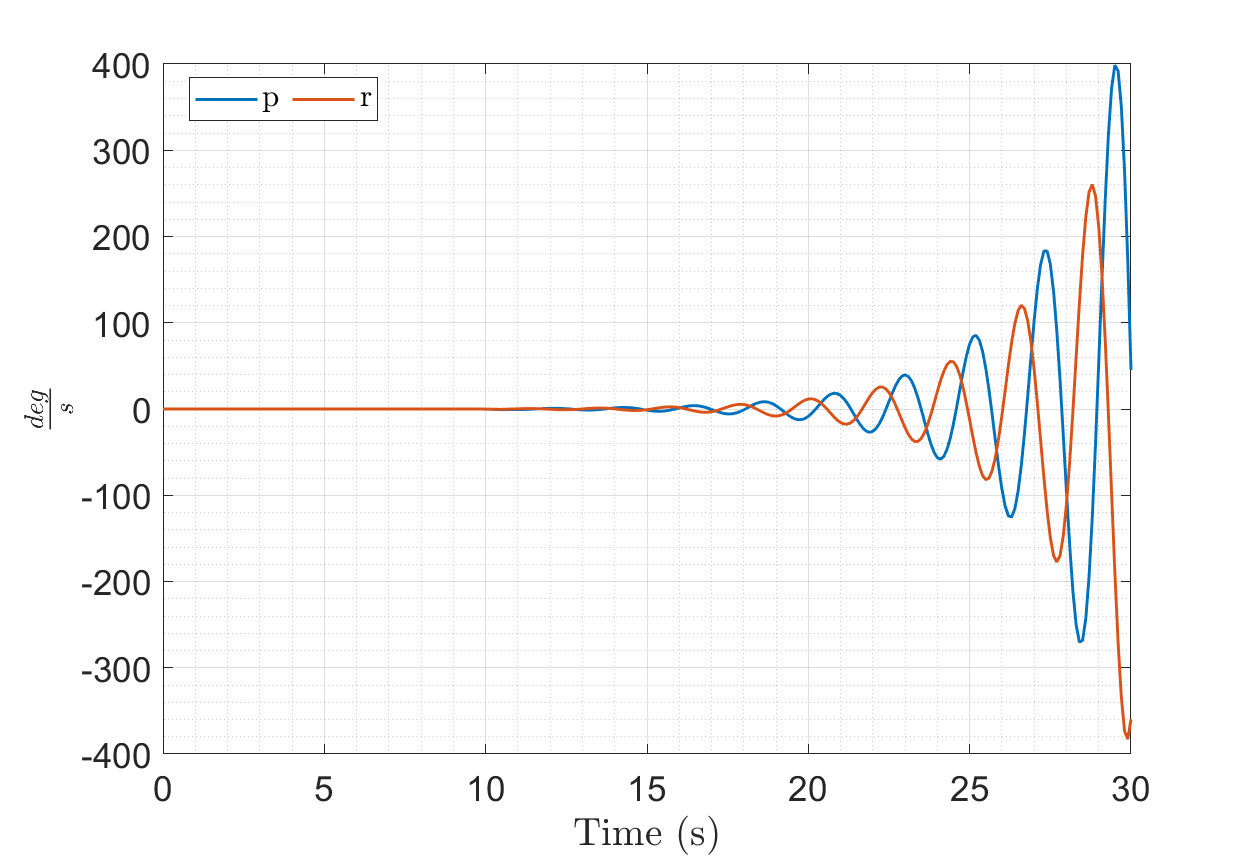
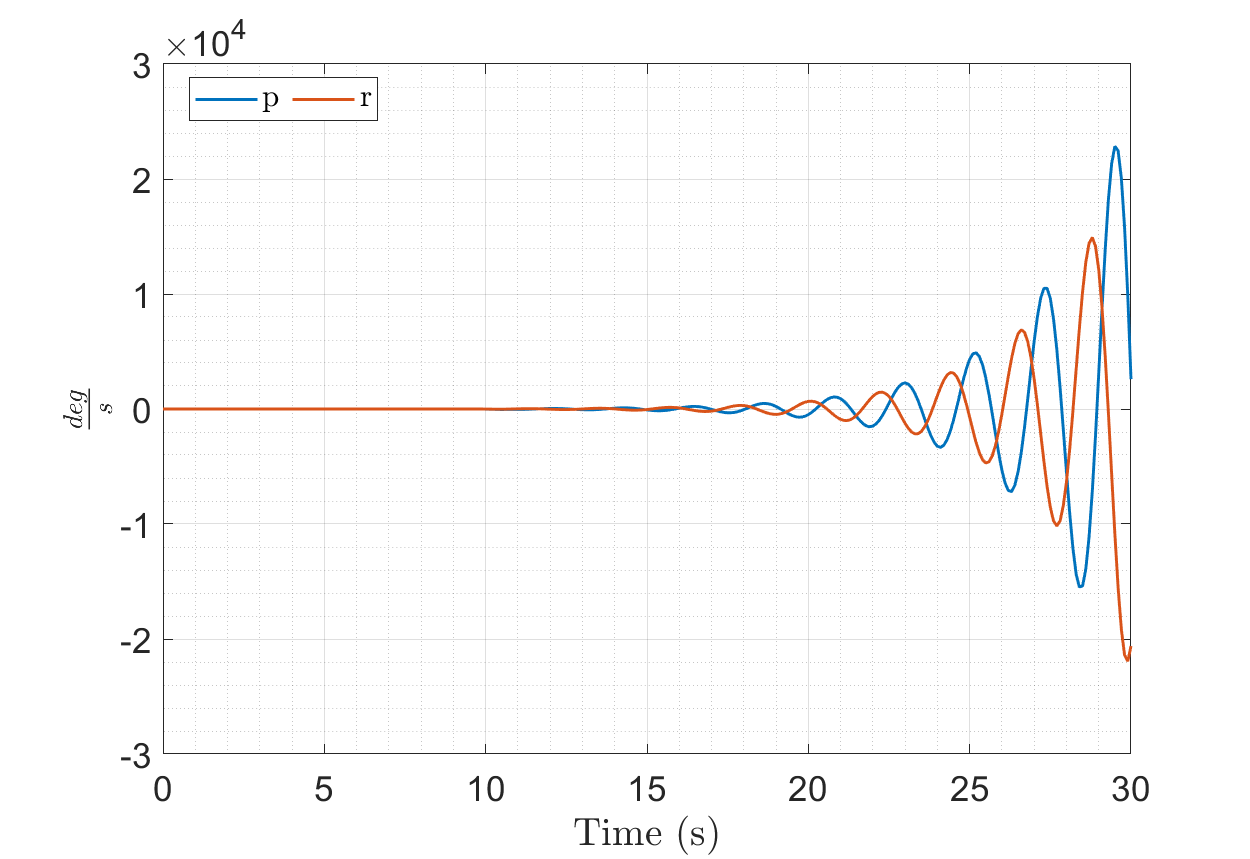
finished off defining different modes - part c

diff --git a/Part C/PartC.m b/Part C/PartC.m
@@ -18,16 +18,7 @@ pos = [500 200 800 550];
 
 %% Main Code
 
-% TO DO: % Conditions for lateral modes of motion
-         % Part D plotting ze
-         % Check initial conditions for euler integration
-         % Part E
-         % Part F - which flight phase is the aircraft in
-         % Lateral Handling Level for part F dependent on how to identify
-         % modes in lateral case
-         % Is Phugoid mode independent of category - how to implement?
-         % How to do roll mode and spiral mode in last part
-
+% TO DO: % Double check how to calculate time constant
 
 % load helper functions from flight sim
 addpath('../sim')
@@ -66,11 +57,11 @@ for cg = ["CG1", "CG2"]
         end
         
         if cg == "CG1" && speed == 100
-            Lona = mat1;
+            lon = mat1;
         elseif cg == "CG1" && speed == 180
-            Lona = mat2;
+            lon = mat2;
         else
-            Lona = mat3;
+            lon = mat3;
         end
         
         % alt 1000ft
@@ -156,70 +147,76 @@ for cg = ["CG1", "CG2"]
         
         % Longitudinal State Matrix 
         % w form
-        e_lona = eig(Lona.A_Lon);
-        [omega_lona, zeta_lona] = damp(e_lona);
+        e_lon = eig(lon.A_Lon);
+        [omega_lon, zeta_lon] = damp(e_lon);
         disp('Alpha form matrix: ');
         disp('Eigenvalues of longitudinal motion: ');
-        disp(num2str(e_lona));
+        disp(num2str(e_lon));
         disp('Natural Frequency: ');
-        disp(num2str(omega_lona));
+        disp(num2str(omega_lon));
         disp('Damping Ratio: ');
-        disp(num2str(zeta_lona));
+        disp(num2str(zeta_lon));
         
         
         % Lateral State Matrices
         % Beta form
-        A_latb = [Yb/u1 Yp/u1 (Yr/u1 - 1) (g*cos(theta1))/u1 0 ;
+        A_lat = [Yb/u1 Yp/u1 (Yr/u1 - 1) (g*cos(theta1))/u1 0 ;
                  (Lb + A1*(Nb + NTb))/(1 - A1*B1) (Lp + A1*Np)/(1 - A1*B1) (Lr + A1*Nr)/(1 - A1*B1) 0 0 ;
                  (Nb + NTb + B1*Lb)/(1 - A1*B1) (Np + B1*Lp)/(1 - A1*B1) (Nr + B1*Lr)/(1 - A1*B1) 0 0 ;
                  0 1 tan(theta1) 0 0 ;
                  0 0 sec(theta1) 0 0 ];
-        B_latb = [Yda/u1 Ydr/u1 ; 
+        B_lat = [Yda/u1 Ydr/u1 ; 
                   ((Lda + A1*Nda)/(1 - A1*B1)) ((Ldr + A1*Ndr)/(1 - A1*B1)) ;
                   ((Nda + B1*Lda)/(1 - A1*B1)) ((Ndr + B1*Ldr)/(1 - A1*B1)) ; 
                   0 0 ;
                   0 0];
              
-        e_latb = eig(A_latb);
-        [omega_latb, zeta_latb] = damp(e_latb); % Need to double check
+        e_lat = eig(A_lat);
+        [omega_lat, zeta_lat] = damp(e_lat); % Need to double check
         disp([newline, 'Beta form matrix: ']);
         disp('Eigenvalues of lateral motion: ');
-        disp(num2str(e_latb));
+        disp(num2str(e_lat));
         disp('Natural Frequency: ');
-        disp(num2str(omega_latb));
+        disp(num2str(omega_lat));
         disp('Damping Ratio: ');
-        disp(num2str(zeta_latb));
+        disp(num2str(zeta_lat));
         
 
         
         
         %% Part B   -- Check for positive values
         disp([newline,'Part B']);       
+        
+        % Calculating time constants for Part F
+        tau_lon = 1./omega_lon;
+        tau_lat = 1./omega_lat;
 
         disp('Longitudinal Modes of motion');
         % Checking if it is a short period mode, phugoid mode
         % Index position
         % idx 1 = u
-        % idx 2 = alpha
+        % idx 2 = w
         % idx 3 = q
         % idx 4 = theta 
         % idx 5 = ze
-        for i = 1:length(omega_lona)
-            if isreal(e_lona(i)) == 0
-                if omega_lona(i) >= 1 && omega_lona(i) <= 6 && zeta_lona(i) >= 0.5 && zeta_lona(i) <= 0.8
+        for i = 1:length(omega_lon)
+            if isreal(e_lon(i)) == 0
+                if omega_lon(i) >= 1 && omega_lon(i) <= 6 && zeta_lon(i) >= 0.5 && zeta_lon(i) <= 0.8
                     disp(['State: ', num2str(i), ' |', ' SPM', ' |', ' Eig: ' ...
-                        num2str(e_lona(i)), ' |',' Omega: ', num2str(omega_lona(i)), ' |', ' Zeta: ', num2str(zeta_lona(i))]);
-                    w_SPM = omega_lona(i);
-                    z_SPM = zeta_lona(i);
-                elseif omega_lona(i) >= 0.1 && omega_lona(i) <= 0.6
+                        num2str(e_lon(i)), ' |',' Omega: ', num2str(omega_lon(i)), ' |', ' Zeta: ', num2str(zeta_lon(i))]);
+                    w_SPM = omega_lon(i);
+                    z_SPM = zeta_lon(i);
+                    tau_SPM = tau_lon(i);
+                elseif omega_lon(i) >= 0.1 && omega_lon(i) <= 0.6
                     disp(['State: ', num2str(i), ' |', ' Phugoid', ' |', ' Eig: ' ...
-                        num2str(e_lona(i)),' |', ' Omega: ', num2str(omega_lona(i)), ' |', ' Zeta: ', num2str(zeta_lona(i))]);
-                    w_Phu = omega_lona(i);
-                    z_Phu = zeta_lona(i);
+                        num2str(e_lon(i)),' |', ' Omega: ', num2str(omega_lon(i)), ' |', ' Zeta: ', num2str(zeta_lon(i))]);
+                    w_Phu = omega_lon(i);
+                    z_Phu = zeta_lon(i);
+                    tau_Phu = tau_lon(i);
                 end
             else
                 disp(['State: ', num2str(i), ' |', ' Altitude con/div', ' |', ' Eig: ' ...
-                        num2str(e_lona(i)),' |', ' Omega: ', num2str(omega_lona(i)), ' |', ' Zeta: ', num2str(zeta_lona(i))]);
+                        num2str(e_lon(i)),' |', ' Omega: ', num2str(omega_lon(i)), ' |', ' Zeta: ', num2str(zeta_lon(i))]);
             end
         end 
                     
@@ -231,22 +228,25 @@ for cg = ["CG1", "CG2"]
         % idx 3 = r
         % idx 4 = phi 
         % idx 5 = psi
-        for i = 1:length(omega_latb)
-            if isreal(e_latb(i)) == 0
+        for i = 1:length(omega_lat)
+            if isreal(e_lat(i)) == 0
                 disp(['State: ', num2str(i), ' |',' Dutch Roll',  ' |', ' Eig: ' ...
-                        num2str(e_latb(i)),' |', ' Omega: ', num2str(omega_latb(i)), ' |', ' Zeta: ', num2str(zeta_latb(i))]);
-                z_DR = zeta_latb(i);
-                w_DR = omega_latb(i);
-            elseif zeta_latb(i) == -1
+                        num2str(e_lat(i)),' |', ' Omega: ', num2str(omega_lat(i)), ' |', ' Zeta: ', num2str(zeta_lat(i))]);
+                z_DR = zeta_lat(i);
+                w_DR = omega_lat(i);
+                tau_DR = tau_lat(i);
+            elseif zeta_lat(i) == -1
                 disp(['State: ', num2str(i), ' |',' Spiral Mode',  ' |', ' Eig: ' ...
-                        num2str(e_latb(i)),' |', ' Omega: ', num2str(omega_latb(i)), ' |', ' Zeta: ', num2str(zeta_latb(i))]);
-                z_SM = zeta_latb(i);
-                w_DR = omega_latb(i);
-            elseif zeta_latb(i) == 1
+                        num2str(e_lat(i)),' |', ' Omega: ', num2str(omega_lat(i)), ' |', ' Zeta: ', num2str(zeta_lat(i))]);
+                z_SM = zeta_lat(i);
+                w_SM = omega_lat(i);
+                tau_SM = tau_lat(i);
+            elseif zeta_lat(i) == 1
                 disp(['State: ', num2str(i), ' |',' Roll Mode',  ' |', ' Eig: ' ...
-                        num2str(e_latb(i)),' |', ' Omega: ', num2str(omega_latb(i)), ' |', ' Zeta: ', num2str(zeta_latb(i))]);
-                z_RM = zeta_latb(i);
-                w_RM = omega_latb(i);
+                        num2str(e_lat(i)),' |', ' Omega: ', num2str(omega_lat(i)), ' |', ' Zeta: ', num2str(zeta_lat(i))]);
+                z_RM = zeta_lat(i);
+                w_RM = omega_lat(i);
+                tau_RM = tau_lat(i);
             end
         end
         
@@ -257,8 +257,8 @@ for cg = ["CG1", "CG2"]
         % Control deflection of 5 deg held for 0.5s and then returned to 0
         % deg
         
-        A_lona = Lona.A_Lon;
-        B_lona = Lona.B_Lon;
+        A_lon = lon.A_Lon;
+        B_lon = lon.B_Lon;
             
         % Conditions for Euler Integration
         T = 30;
@@ -266,7 +266,7 @@ for cg = ["CG1", "CG2"]
         Steps = T/dT;
         
         % States
-        % Longitudinal - [u alpha q theta z]
+        % Longitudinal - [u w q theta z]
         % Lateral - [beta p r phi psi]
         X_lon = [0 0 0 0 0]'; % Assigning intial values for states
         X_lat = [0 0 0 0 0]';
@@ -283,11 +283,11 @@ for cg = ["CG1", "CG2"]
             time = i*dT;
             
             if time >= 10 && time <= 10.5
-                Xdot_lon = A_lona*X_lon(:,i) + B_lona*def;
-                Xdot_lat = A_latb*X_lat(:,i) + B_latb*def;
+                Xdot_lon = A_lon*X_lon(:,i) + B_lon*def;
+                Xdot_lat = A_lat*X_lat(:,i) + B_lat*def;
             else
-                Xdot_lon = A_lona*X_lon(:,i) + B_lona*def_zero;  
-                Xdot_lat = A_latb*X_lat(:,i) + B_latb*def_zero;
+                Xdot_lon = A_lon*X_lon(:,i) + B_lon*def_zero;  
+                Xdot_lat = A_lat*X_lat(:,i) + B_lat*def_zero;
             end
             X_lon(:,i + 1) = X_lon(:,i) + dT*Xdot_lon;
             X_lat(:,i + 1) = X_lat(:,i) + dT*Xdot_lat;
@@ -298,10 +298,9 @@ for cg = ["CG1", "CG2"]
 %         disp([newline,'Part D']);
         
         % Time history and comparison with eigenvalues
+        Time = linspace(0,T,length(X_lon));
         
         if plotting == 1
-            
-            Time = linspace(0,T,length(X_lon));
             
             % Longitudinal Case
             figure(1)
@@ -325,7 +324,7 @@ for cg = ["CG1", "CG2"]
             hold off
             
             figure(3)
-            plot(Time,rad2deg(X_lon(2,:))./u1) % alpha
+            plot(Time,rad2deg(X_lon(2,:))./u1) % w form but outputting alpha (using alpha = w/u1)
             hold on
             plot(Time,rad2deg(X_lon(4,:))) % theta
             grid on; grid minor; box on
@@ -340,7 +339,7 @@ for cg = ["CG1", "CG2"]
             hold off
             
             figure(4)
-            plot(Time,rad2deg(X_lon(5,:))) % ze
+            plot(Time,X_lon(5,:)) % ze
             grid on; grid minor; box on
             xlabel('Time (s)','Interpreter','latex')
             ylabel('m','Interpreter','latex')
@@ -369,9 +368,9 @@ for cg = ["CG1", "CG2"]
             hold off
             
             figure(6)         
-            plot(Time,X_lat(2,:)) % p 
+            plot(Time,rad2deg(X_lat(2,:))) % p 
             hold on
-            plot(Time,X_lat(3,:)) % r
+            plot(Time,rad2deg(X_lat(3,:))) % r
             grid on; grid minor; box on
             xlabel('Time (s)','Interpreter','latex')
             ylabel('$\frac{deg}{s}$','Interpreter','latex')
@@ -483,6 +482,20 @@ for cg = ["CG1", "CG2"]
         
         % Lateral - Modes: Dutch Mode, Roll Mode, Spiral Mode
         disp([newline, 'Lateral Case']);
+        
+        % Calculating time for bank angle disturbance to double for spiral
+        % mode condition - DOUBLE CHECK (using graph)
+        time_start = []; time_end = [];
+        for i = 1:length(X_lat(4,:))
+            if abs(X_lat(4,i)) >= (20*pi)/180
+                time_start = [time_start Time(i)];
+            end
+            if abs(X_lat(4,i)) >= (40*pi)/180
+                time_end = [time_end Time(i)];
+            end
+        end  
+        time_doubphi = time_end(1) - time_start(1);
+        
         % Category A
         disp('Category A');
         
@@ -496,8 +509,23 @@ for cg = ["CG1", "CG2"]
         end
         
         % Roll Mode - time constant
+        if tau_RM <= 1
+            disp('Roll Mode Handling: Level 1');
+        elseif tau_RM <= 1.4
+            disp('Roll Mode Handling: Level 2');
+        elseif tau_RM <= 10
+            disp('Roll Mode Handling: Level 3');
+        end
         
-        % Spiral Mode - Bank angle disturbance
+        % Spiral Mode - Bank angle disturbance 
+        if time_doubphi > 8 && time_doubphi <= 12
+            disp('Spiral Mode Handling: Level 1');
+        elseif time_doubphi > 4 && time_doubphi <= 8
+            disp('Spiral Mode Handling: Level 2');
+        elseif time_doubphi > 0 && time_doubphi <= 4
+            disp('Spiral Mode Handling: Level 3');
+        end
+
         
         % Category B
         disp([newline, 'Category B']);
@@ -512,8 +540,22 @@ for cg = ["CG1", "CG2"]
         end
         
         % Roll Mode - time constant
+        if tau_RM <= 1.4
+            disp('Roll Mode Handling: Level 1');
+        elseif tau_RM <= 3
+            disp('Roll Mode Handling: Level 2');
+        elseif tau_RM <= 10
+            disp('Roll Mode Handling: Level 3');
+        end
         
         % Spiral Mode - Bank angle disturbance
+        if time_doubphi > 8 && time_doubphi <= 20
+            disp('Spiral Mode Handling: Level 1');
+        elseif time_doubphi > 4 && time_doubphi <= 8
+            disp('Spiral Mode Handling: Level 2');
+        elseif time_doubphi > 0 && time_doubphi <= 4
+            disp('Spiral Mode Handling: Level 3');
+        end
         
         
         % Category C
@@ -529,15 +571,29 @@ for cg = ["CG1", "CG2"]
         end
         
         % Roll Mode - time constant
+        if tau_RM <= 1
+            disp('Roll Mode Handling: Level 1');
+        elseif tau_RM <= 1.4
+            disp('Roll Mode Handling: Level 2');
+        elseif tau_RM <= 10
+            disp('Roll Mode Handling: Level 3');
+        end
         
         % Spiral Mode - Bank angle disturbance
+        if time_doubphi > 8 && time_doubphi <= 12
+            disp('Spiral Mode Handling: Level 1');
+        elseif time_doubphi > 4 && time_doubphi <= 8
+            disp('Spiral Mode Handling: Level 2');
+        elseif time_doubphi > 0 && time_doubphi <= 4
+            disp('Spiral Mode Handling: Level 3');
+        end
         
         
         disp([newline, '------------------------------------']);
         
         % Compiling data
-        output.data_lon = [output.data_lon e_lona omega_lona zeta_lona];
-        output.data_lat = [output.data_lat e_latb omega_latb zeta_latb];
+        output.data_lon = [output.data_lon e_lon omega_lon zeta_lon];
+        output.data_lat = [output.data_lat e_lat omega_lat zeta_lat];
         
     end
 end
